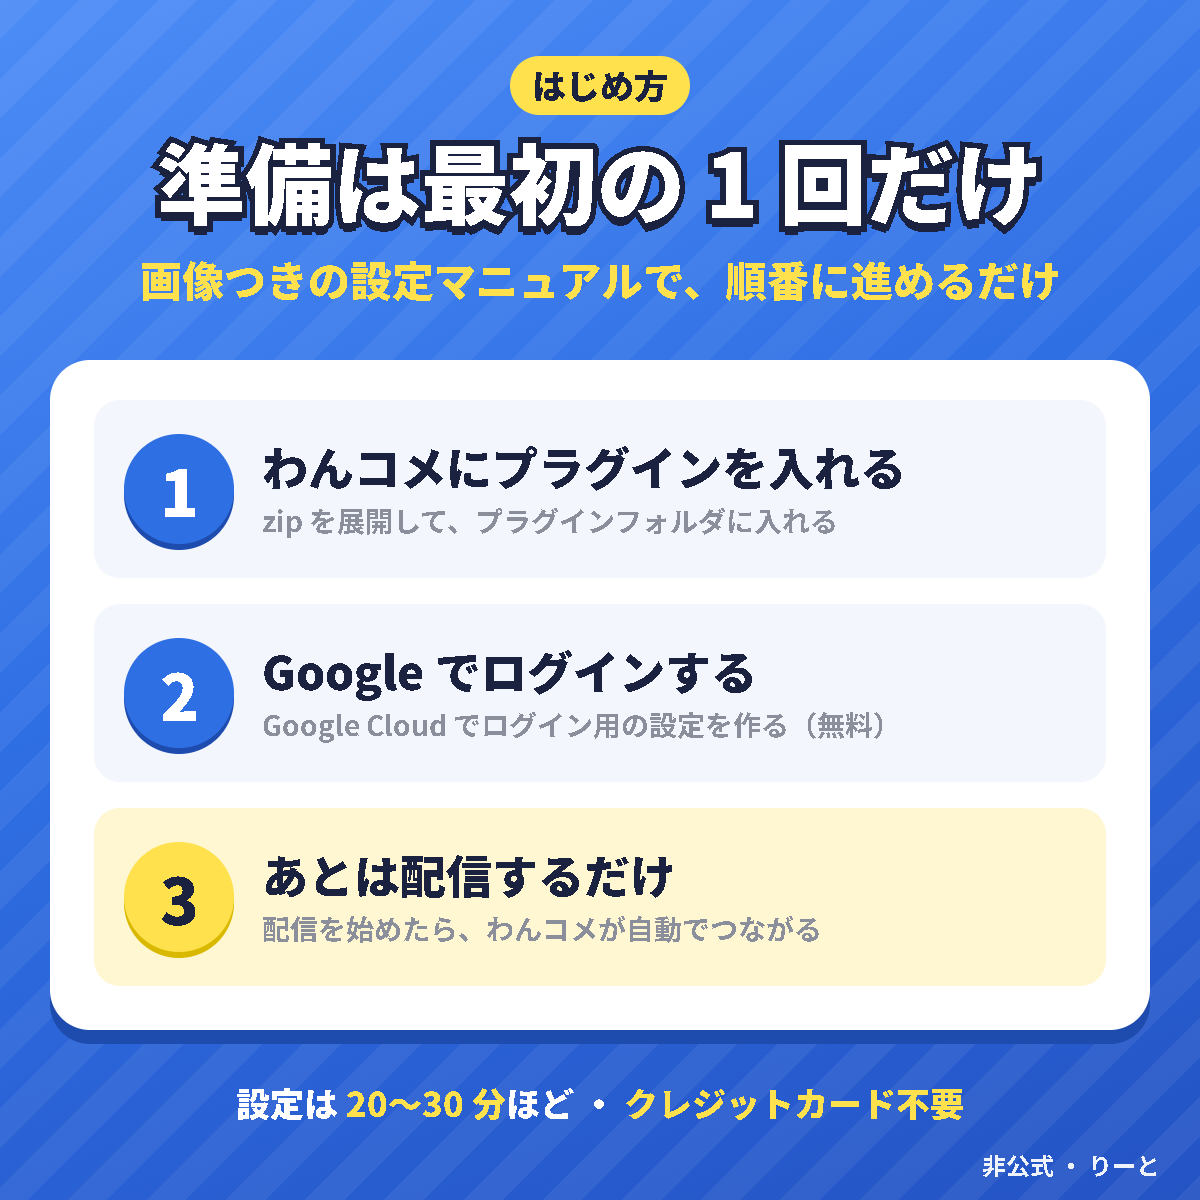
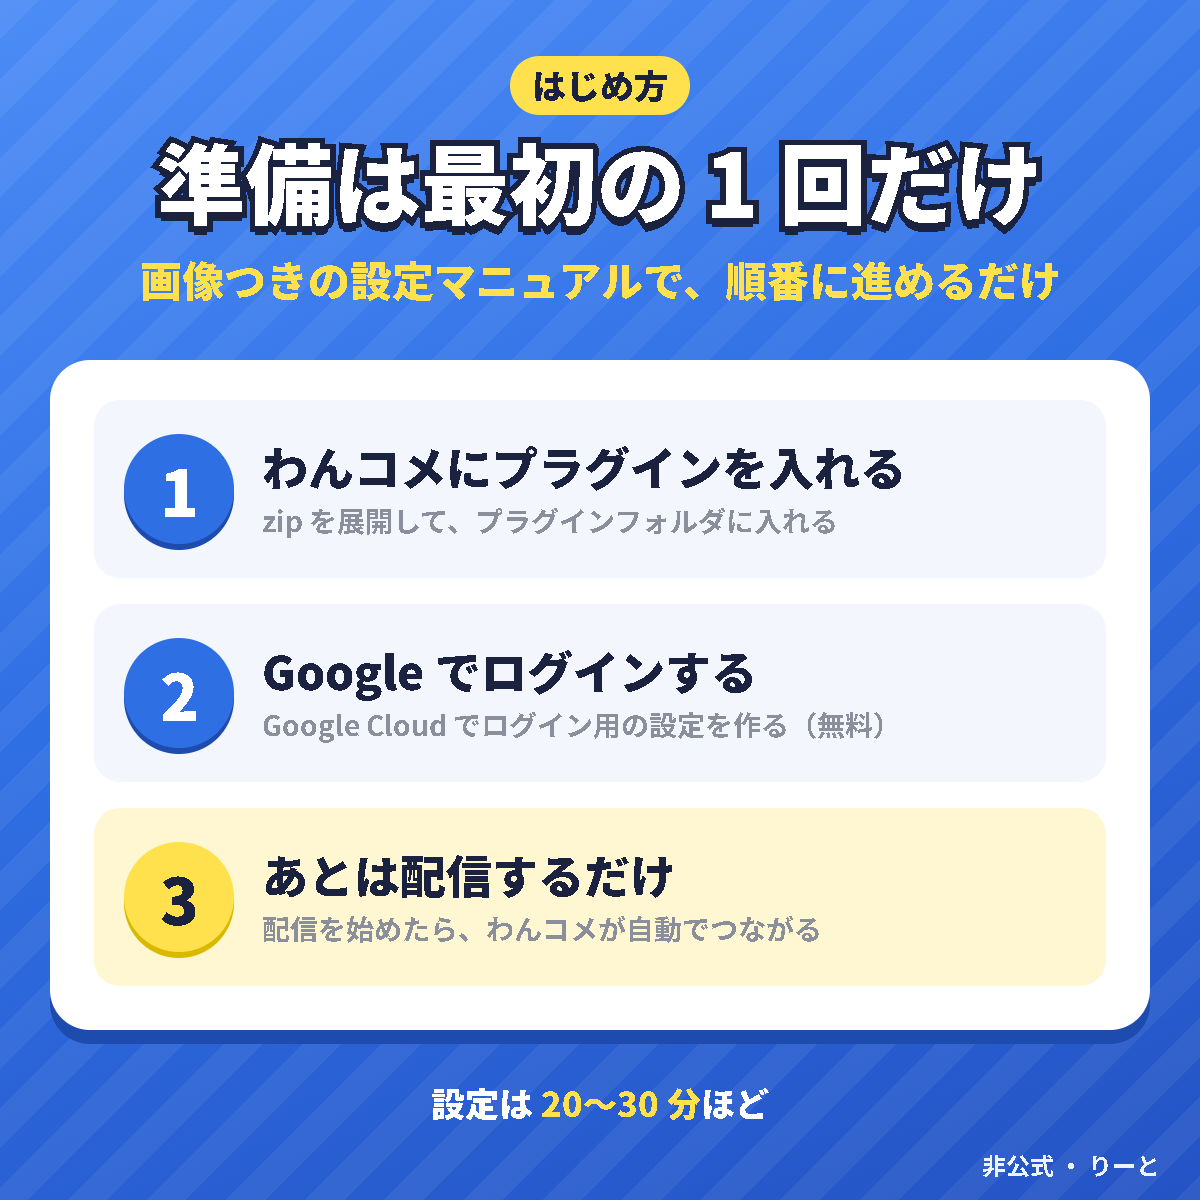
docs(booth): 3 枚目から「クレジットカード不要」を外す
無料と書いているので重ねて書く必要がないため。

Changed region(s): [[0.185, 0.8942, 0.8017, 0.9558]]

diff --git a/docs/booth/src/image-3.html b/docs/booth/src/image-3.html
@@ -33,7 +33,7 @@
     <div class="step"><div class="n">2</div><div class="t">Google でログインする<small>Google Cloud でログイン用の設定を作る（無料）</small></div></div>
     <div class="step last"><div class="n">3</div><div class="t">あとは配信するだけ<small>配信を始めたら、わんコメが自動でつながる</small></div></div>
   </div>
-  <div class="note">設定は <em>20〜30 分</em>ほど ・ <em>クレジットカード不要</em></div>
+  <div class="note">設定は <em>20〜30 分</em>ほど</div>
   <div class="foot">非公式 ・ りーと</div>
 </body>
 </html>
